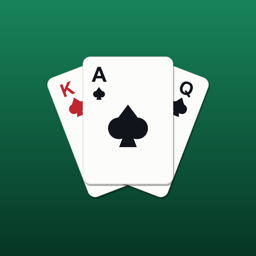
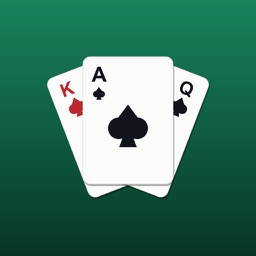
Correct FullPay: it is on the App Store, not in review
FullPay 1.0.0 has been live since before this grid was written; only the
1.0.1 update is in review. Labelling the card "In review" told visitors an
app they could buy today was unavailable.

Verified against the iTunes lookup API rather than App Store Connect status,
which is per-version and was the source of the confusion: FullPay v1.0.0
LIVE, Nag v1.1.1 LIVE, Deja v1.0.0 LIVE, MileClaim absent. Deedbox, ClearBid
and Room by Room have no shipped version, so their badges are unchanged.

Card now carries the store link on the title, the "View on the App Store"
tail in place of the privacy-notice link, and the official badge.

Icon re-pulled from Apple's artworkUrl512 so all three live apps use Apple's
own render. Apple serves that endpoint as JPEG despite the .png path, so it
is converted to real PNG - left alone it would have been served as
image/png while actually being JPEG data.

diff --git a/index.html b/index.html
@@ -604,10 +604,13 @@
         <div class="service-card">
           <div class="product-head">
             <img class="app-icon" src="assets/fullpay-icon.png" alt="FullPay app icon" width="56" height="56" />
-            <span class="badge badge-soon">In review</span>
+            <span class="badge badge-flagship">On the App Store</span>
           </div>
-          <h3>FullPay</h3>
-          <p>A video poker trainer built on an exact-EV engine: for every hand it enumerates every possible draw and computes the mathematically optimal hold for the paytable you are playing. Jacks or Better and the full trainer are free forever; one purchase adds twelve more games plus Blackjack and Keno. Play credits only &mdash; no wagering, no real money. <a href="privacy-fullpay.html">Privacy notice &rarr;</a></p>
+          <h3><a href="https://apps.apple.com/us/app/fullpay-video-poker-trainer/id6792873151?itscg=30200&amp;itsct=apps_box_badge">FullPay</a></h3>
+          <p>A video poker trainer built on an exact-EV engine: for every hand it enumerates every possible draw and computes the mathematically optimal hold for the paytable you are playing. Jacks or Better and the full trainer are free forever; one purchase adds twelve more games plus Blackjack and Keno. Play credits only &mdash; no wagering, no real money. <a href="https://apps.apple.com/us/app/fullpay-video-poker-trainer/id6792873151?itscg=30200&amp;itsct=apps_box_badge">View on the App Store &rarr;</a></p>
+          <a class="store-badge" href="https://apps.apple.com/us/app/fullpay-video-poker-trainer/id6792873151?itscg=30200&amp;itsct=apps_box_badge">
+            <img src="assets/app-store-badge.svg" alt="Download FullPay on the App Store" height="40" />
+          </a>
         </div>
         <div class="service-card">
           <div class="product-head">
